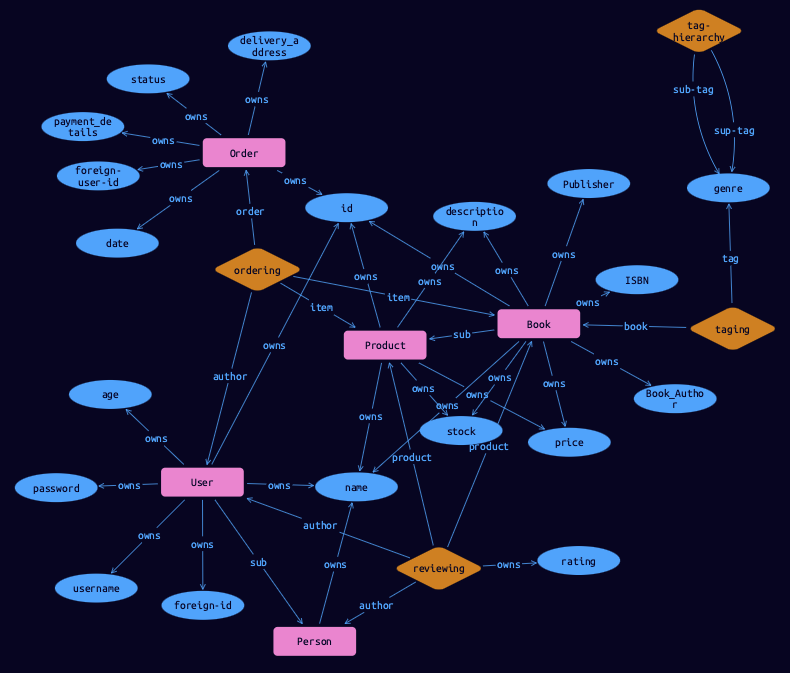
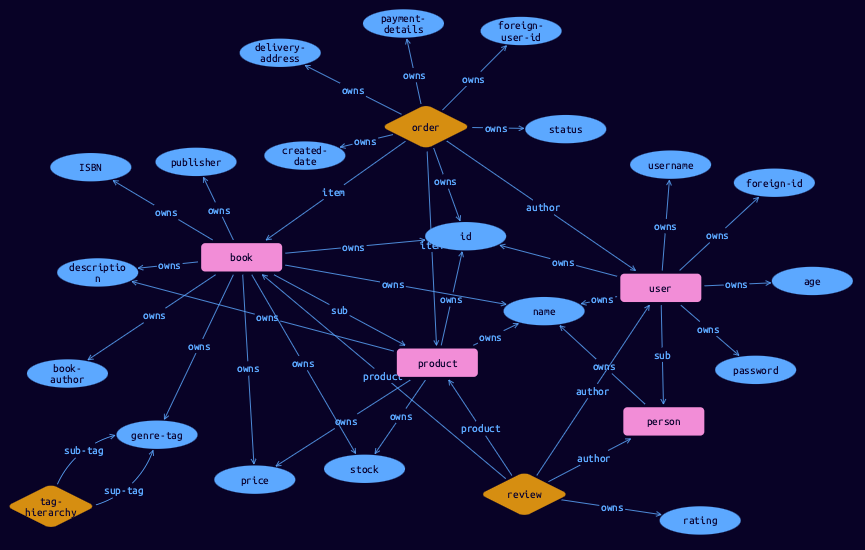
Minor fixes and Readme update

diff --git a/commerce/bookstore/python/requests.py b/commerce/bookstore/python/requests.py
@@ -1,10 +1,11 @@
 from typedb.client import TypeDB, SessionType, TransactionType, TypeDBOptions
 import argparse
+import config
 
 # Verbosity option implementation
-parser = argparse.ArgumentParser(description='Loads data into TypeDB for the Bookstore example')
-parser.add_argument("-v", "--verbose", "-d", "--debug", help='Increase output verbosity',
-                    dest="verbosity", action='store_true')
+parser = argparse.ArgumentParser(description="Bookstore example requests")
+parser.add_argument("-v", "--verbose", "-d", "--debug", help="Increase output verbosity",
+                    dest="verbosity", action="store_true")
 args = vars(parser.parse_args())
 
 if args["verbosity"]:  # if the argument was set
@@ -12,8 +13,6 @@ if args["verbosity"]:  # if the argument was set
     debug = True  # Shows verbose debug messages in the console output
 else:
     debug = False  # No debug messages
-
-db = "bookstore"  # DB name
 
 
 def selection():  # This is the main UI to select a function to proceed with
@@ -55,7 +54,7 @@ def search_book(ISBN):  # Search book by ISBN (or show all books if empty ISBN g
         return
     else:  # Non-empty ISBN given
         with TypeDB.core_client("localhost:1729") as client:
-            with client.session(db, SessionType.DATA) as session:
+            with client.session(config.db, SessionType.DATA) as session:
                 with session.transaction(TransactionType.READ) as transaction:
                     typeql_read_query = "match $b isa book, has ISBN '" + ISBN + "', has name $n, " \
                                         "has book-author $ba; " \
@@ -69,7 +68,7 @@ def search_book(ISBN):  # Search book by ISBN (or show all books if empty ISBN g
         print("books found:", k)  # Print counter as a number of results
         # Rating computation
         with TypeDB.core_client("localhost:1729") as client:  # 1
-            with client.session(db, SessionType.DATA) as session:  # 2
+            with client.session(config.db, SessionType.DATA) as session:  # 2
                 with session.transaction(TransactionType.READ) as transaction:  # a
                     typeql_read_query = "match $b isa book, has ISBN '" + ISBN + "';" \
                                         "$r (product: $b, author:$a) isa review; $r has rating $rating;" \
@@ -99,7 +98,7 @@ def search_user(user):  # Search user by foreign-id (or show all users if empty 
         return
     else:
         with TypeDB.core_client("localhost:1729") as client:  # 1
-            with client.session(db, SessionType.DATA) as session:  # 2
+            with client.session(config.db, SessionType.DATA) as session:  # 2
                 with session.transaction(TransactionType.READ) as transaction:  # a
                     typeql_read_query = "match $u isa user, has id $i, has name $n, has foreign-id '" + user + "'; " \
                                         "get $i, $n;"  # Limit the number of results by adding " limit 100;"
@@ -116,7 +115,7 @@ def search_user(user):  # Search user by foreign-id (or show all users if empty 
 def search_order(order_id):  # Search order by id (or show all orders if empty id given)
     # Different approach - download all orders first, filter later
     with TypeDB.core_client("localhost:1729") as client:
-        with client.session(db, SessionType.DATA) as session:
+        with client.session(config.db, SessionType.DATA) as session:
             with session.transaction(TransactionType.READ) as transaction:
                 typeql_read_query = "match $o isa order, has id $i, has foreign-user-id $fui, " \
                                     "has created-date $d, has status $s, has delivery-address $da;" \
@@ -145,7 +144,7 @@ def search_genre(tag_name):  # Search books by genre tag
     TB = TypeDBOptions.core()  # Initialising a new set of options
     TB.infer = True  # Enabling inference in this new set of options
     with TypeDB.core_client("localhost:1729") as client:
-        with client.session(db, SessionType.DATA) as session:
+        with client.session(config.db, SessionType.DATA) as session:
             with session.transaction(TransactionType.READ, TB) as transaction:
                 typeql_read_query = "match $g isa genre-tag; $g '" + tag_name + "';" \
                                     "$b isa book, has name $n, has ISBN $i, has $g; " \
@@ -166,7 +165,7 @@ def search_genre(tag_name):  # Search books by genre tag
 def show_all_books():  # Just show all books
     print("Showing all books")
     with TypeDB.core_client("localhost:1729") as client:
-        with client.session(db, SessionType.DATA) as session:
+        with client.session(config.db, SessionType.DATA) as session:
             with session.transaction(TransactionType.READ) as transaction:
                 typeql_read_query = "match $b isa book, has ISBN $i, has name $n, has book-author $ba; " \
                                     "get $i, $n, $ba;"  # Limit the number of results by adding " limit 100;"
@@ -184,7 +183,7 @@ def show_all_books():  # Just show all books
 def show_all_users():  # Just show all users
     print("Showing all users")
     with TypeDB.core_client("localhost:1729") as client:
-        with client.session(db, SessionType.DATA) as session:
+        with client.session(config.db, SessionType.DATA) as session:
             with session.transaction(TransactionType.READ) as transaction:
                 typeql_read_query = "match $u isa user, has id $i, has name $n, has foreign-id $fi; " \
                                     "get $i, $n, $fi; sort $fi asc;"  # Limit the number of results by adding " limit 100;"
@@ -202,7 +201,7 @@ def show_all_users():  # Just show all users
 
 def show_all_genres():  # Just display all genre tags
     with TypeDB.core_client("localhost:1729") as client:
-        with client.session(db, SessionType.DATA) as session:
+        with client.session(config.db, SessionType.DATA) as session:
             with session.transaction(TransactionType.READ) as transaction:
                 typeql_read_query = "match $g isa genre-tag; get $g;"  # Prepare query
                 if debug: print("Executing TypeQL read Query: " + typeql_read_query)

diff --git a/commerce/bookstore/python/loaders.py b/commerce/bookstore/python/loaders.py
@@ -13,7 +13,7 @@ class Loader:  # Superclass for all loaders
 
 class BookInput(Loader):
     def __init__(self, item):
-        super().__init__(item, config.data_path + 'books.csv')  # Set exact filename to parse with this class
+        super().__init__(item, config.data_path + "books.csv")  # Set exact filename to parse with this class
 
     def load(self):  # building a TypeQL request to insert a book
         return "insert $b isa book, has id '" + str(uuid.uuid4()) + "', has ISBN '" + self.item["ISBN"] + \
@@ -24,7 +24,7 @@ class BookInput(Loader):
 
 class UserInput(Loader):
     def __init__(self, item):
-        super().__init__(item, config.data_path + 'users.csv')  # Set exact filename to parse with this class
+        super().__init__(item, config.data_path + "users.csv")  # Set exact filename to parse with this class
 
     def load(self):  # building a TypeQL request to insert a user
         first_names = ("John", "Andy", "Joe", "Bob", "Alex", "Mary", "Alexa", "Monika", "Vladimir", "Tom", "Jerry")
@@ -40,7 +40,7 @@ class UserInput(Loader):
 
 class RatingInput(Loader):
     def __init__(self, item):
-        super().__init__(item, config.data_path + 'ratings.csv')  # Set exact filename to parse with this class
+        super().__init__(item, config.data_path + "ratings.csv")  # Set exact filename to parse with this class
 
     def load(self):  # building a TypeQL request to insert a review (review relation)
         typeql_insert_query = "match $u isa user, has foreign-id '" + self.item["User-ID"] + "'; " \
@@ -52,7 +52,7 @@ class RatingInput(Loader):
 
 class OrderInput(Loader):
     def __init__(self, item):
-        super().__init__(item, config.data_path + 'orders.csv')  # Set exact filename to parse with this class
+        super().__init__(item, config.data_path + "orders.csv")  # Set exact filename to parse with this class
 
     def load(self):  # building a TypeQL request to insert an order
         i = 0
@@ -77,7 +77,7 @@ class OrderInput(Loader):
 
 class GenreInput(Loader):
     def __init__(self, item):
-        super().__init__(item, config.data_path + 'genres.csv')  # Set exact filename to parse with this class
+        super().__init__(item, config.data_path + "genres.csv")  # Set exact filename to parse with this class
 
     def load(self):  # building a TypeQL request to insert a genre/book association
         typeql_insert_query = "match $b isa book, has ISBN '" + self.item["ISBN"] + "'; " \

diff --git a/commerce/bookstore/python/load_data.py b/commerce/bookstore/python/load_data.py
@@ -5,9 +5,9 @@ import config
 import argparse
 
 # Verbosity option implementation
-parser = argparse.ArgumentParser(description='Loads data into TypeDB for the Bookstore example')
-parser.add_argument("-v", "--verbose", "-d", "--debug", help='Increase output verbosity',
-                    dest="verbosity", action='store_true')
+parser = argparse.ArgumentParser(description="Loads data into TypeDB for the Bookstore example")
+parser.add_argument("-v", "--verbose", "-d", "--debug", help="Increase output verbosity",
+                    dest="verbosity", action="store_true")
 args = vars(parser.parse_args())
 
 if args["verbosity"]:  # if the argument was set
@@ -25,7 +25,7 @@ def parse_data_to_dictionaries(input):
     if debug: print("Parsing of " + input["file"] + "started.")
     items = []
 
-    with open(input('').file, encoding="UTF-8") as data:  # reads the file through a stream,
+    with open(input("").file, encoding="UTF-8") as data:  # reads the file through a stream,
         for row in csv.DictReader(data, delimiter=";", skipinitialspace=True):
             item = {key: value for key, value in row.items()}  # fieldnames (keys) are taken from the first row
             items.append(item)  # adds the dictionary to the list of items
@@ -57,7 +57,7 @@ def load_data():  # Main data load function
     with TypeDB.core_client("localhost:1729") as client:
         with client.session(config.db, SessionType.DATA) as session:
             for input_type in loaders.Input_types_list:  # Iterating through all types of import
-                r = input_type('')  # default object of the input_type
+                r = input_type("")  # default object of the input_type
                 if debug: print("Loading from [" + r.file + "] into TypeDB ...")
                 load_data_into_typedb(input_type, session)  # Main data loading function. Repeat for only file in Inputs
             # loaders.generate_ordered_items()  # Add randomly generated lists of items into orders

diff --git a/commerce/bookstore/README.md b/commerce/bookstore/README.md
@@ -21,7 +21,8 @@ You can find the implementation of each function listed above in the source code
 
 * [TypeDB](https://docs.vaticle.com/docs/running-typedb/install-and-run) v2.14.1+
 * Python v.3.9+
-* `typedb.client` — [Python client](https://docs.vaticle.com/docs/client-api/python) for TypeDB
+  * `typedb.client` — [Python client](https://docs.vaticle.com/docs/client-api/python) for TypeDB
+  * Common Python libraries: csv, argparse, uuid, random
 * This repository
 
 ## Quickstart
@@ -30,7 +31,7 @@ You can find the implementation of each function listed above in the source code
 2. Start the [TypeDB Server](http://docs.vaticle.com/docs/running-typedb/install-and-run#start-the-typedb-server). Check that it's listening to address: `0.0.0.0:1729`.
 3. Launch `typedb-examples/commerce/bookstore/python/load_data.py` Python script. It will load the bookstore schema and data into the DB.
 4. Launch `typedb-examples/commerce/bookstore/python/requests.py` Python script and follow the instructions to explore example functions and data.
-5. Use this simple example to learn the basics of using TypeDB! Explore source codes of the both Python scripts and TypeDB Studio to explore DB schema and content.
+5. Use this simple example to learn the basics of using TypeDB! Explore source codes of the Python scripts and use TypeDB Studio to explore DB schema and content.
 
 ## How it works
 
@@ -40,8 +41,11 @@ This example is located in the `typedb/commerce/bookstore/` directory and consis
 - Python scripts
   - `python/load_data.py` — used to load the bookstore DB schema and data
   - `python/requests.py` — provides simple command line interface to execute requests on TypeDB database
-- `schema.tql` — DB schema
+  - `python/loaders.py` — internal (imported) file with data loading classes and functions
+  - `python/config.py` — internal settings: database name and path to directory with imported csv files
+- `schema.tql` — DB schema in TypeQL
 - `README.md` — documentation for the bookstore example. You are reading it right now
+- `todo.md` — list of ideas for improvements in the future. If you want to contribute to this example, you can start with these ideas
 - Bookstore dataset `python/data/`:
   - `books.csv`
   - `users.csv`
@@ -73,9 +77,9 @@ The bookstore schema has the following attributes:
 - username (string) 
 - password (string) 
 - foreign-id (string) 
-- genre (string) 
+- genre-tag (string) 
 
-- date (datetime)
+- created-date (datetime)
 
 - price (long) 
 - stock (long) 
@@ -91,29 +95,24 @@ The bookstore schema has the following entities:
   - book
 - person
   - user
-- order
 
 #### Relations
 
 The bookstore schema has the following relations:
 
-- reviewing
-- taging 
-- ordering 
+- review
+- order
 - tag-hierarchy
 
 #### Rules
 
 The bookstore schema has two rules to demonstrate rules usability.
 
-The first one works for genre tags, serves no real purpose but follows the following basic logic — a child (sub-tag) of my child is my child. The first rule text:
+The first one works for genre tags, serves no real purpose but follows the following basic logic — a child (sub-tag) of my child is my child. The code for the first rule:
 
 ```
 rule super-tag-hierarchy:
     when {
-        $b isa genre;
-        $p isa genre;
-        $bb isa genre;
         (sup-tag: $p, sub-tag: $b) isa tag-hierarchy;
         (sup-tag: $b, sub-tag: $bb) isa tag-hierarchy;
     } then {
@@ -127,11 +126,11 @@ The second one works also for genre tags, used to improve tag searching experien
 rule super-tag:
     when {
         $book isa book;
-        $tag (tag:$g, book: $b) isa taging;
-        $g isa genre;
-        $sup isa genre;
+        $g isa genre-tag;
+        $book has $g;
+        $sup isa genre-tag;
         (sup-tag: $sup, sub-tag: $g) isa tag-hierarchy;
     } then {
-        (tag:$sup, book: $b) isa taging;
+        $book has $sup;
     };
 ```

diff --git a/commerce/bookstore/python/todo.md b/commerce/bookstore/python/todo.md
@@ -1,5 +1,8 @@
+# ToDo list
 
-# 1. Add logger.debug
-# 2. Add config file for database settings
-# 3. Add functions: add book, add user, add genre, add order
-
+1. Add functions: add book, add user, add genre, add order
+2. Add list of items for show order function
+3. Add auto tests
+4. Add check for successful empty insert queries
+5. Add regular expression for status query in the schema
+6. Add cardinality in the schema
